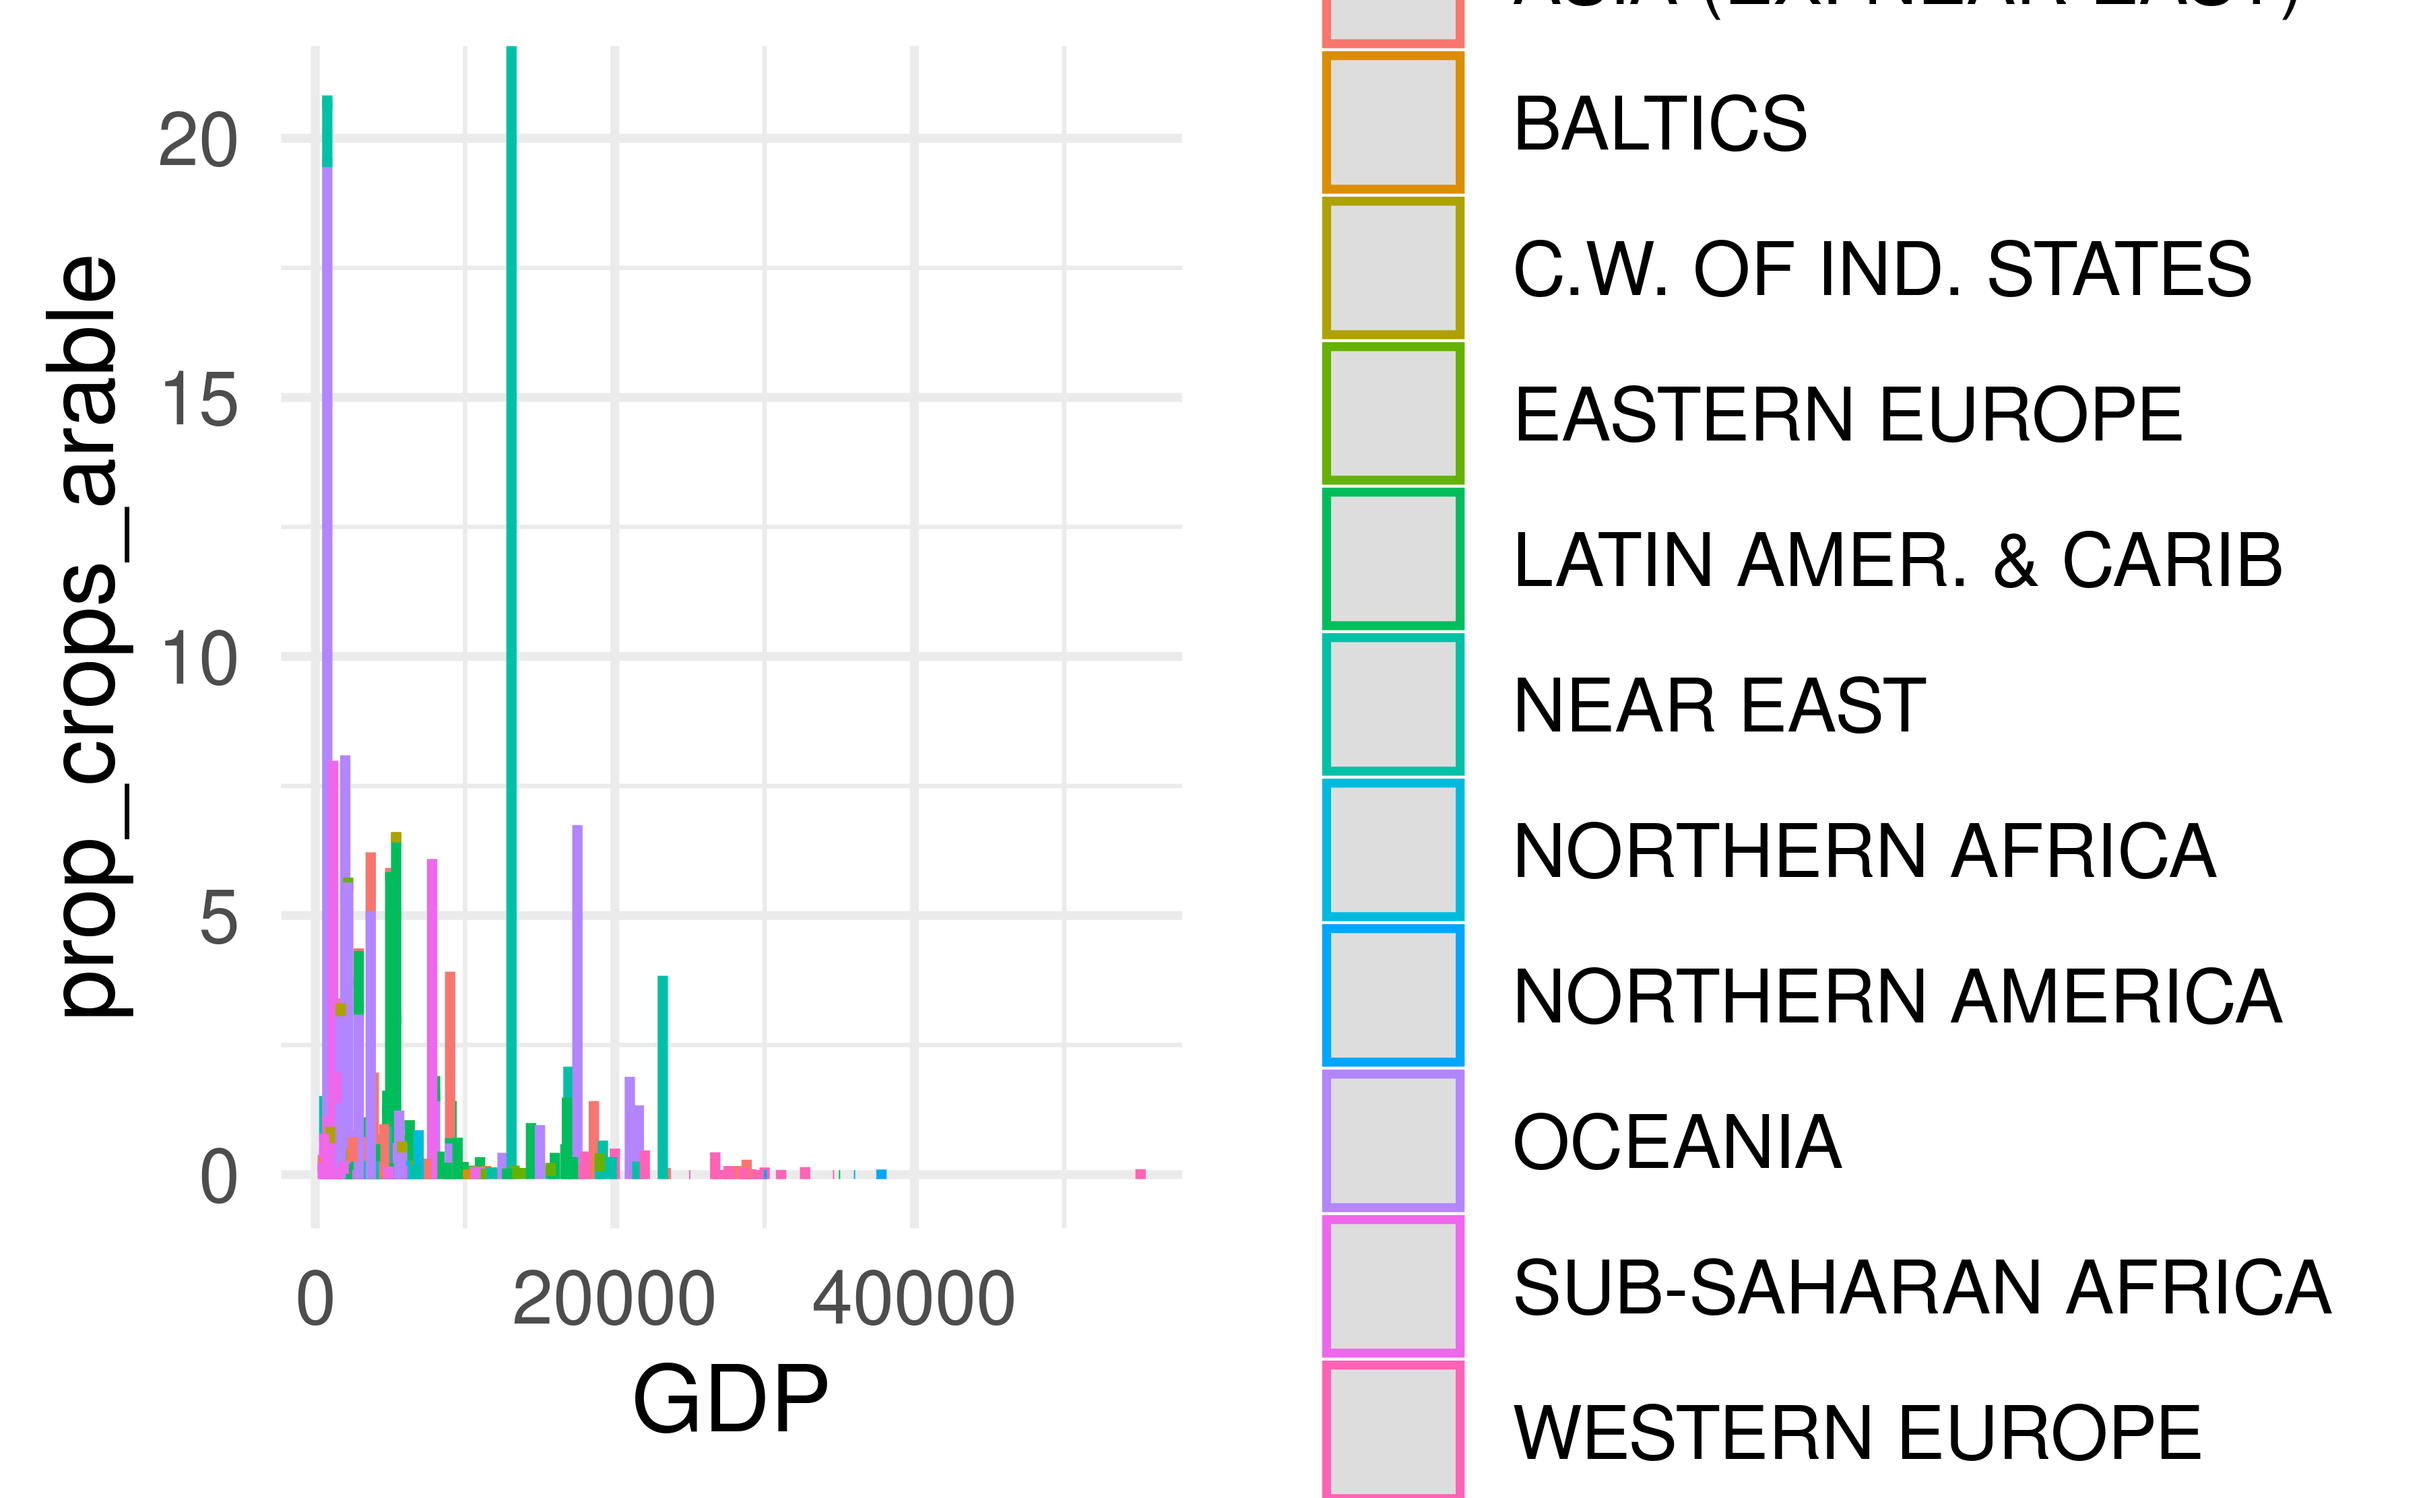
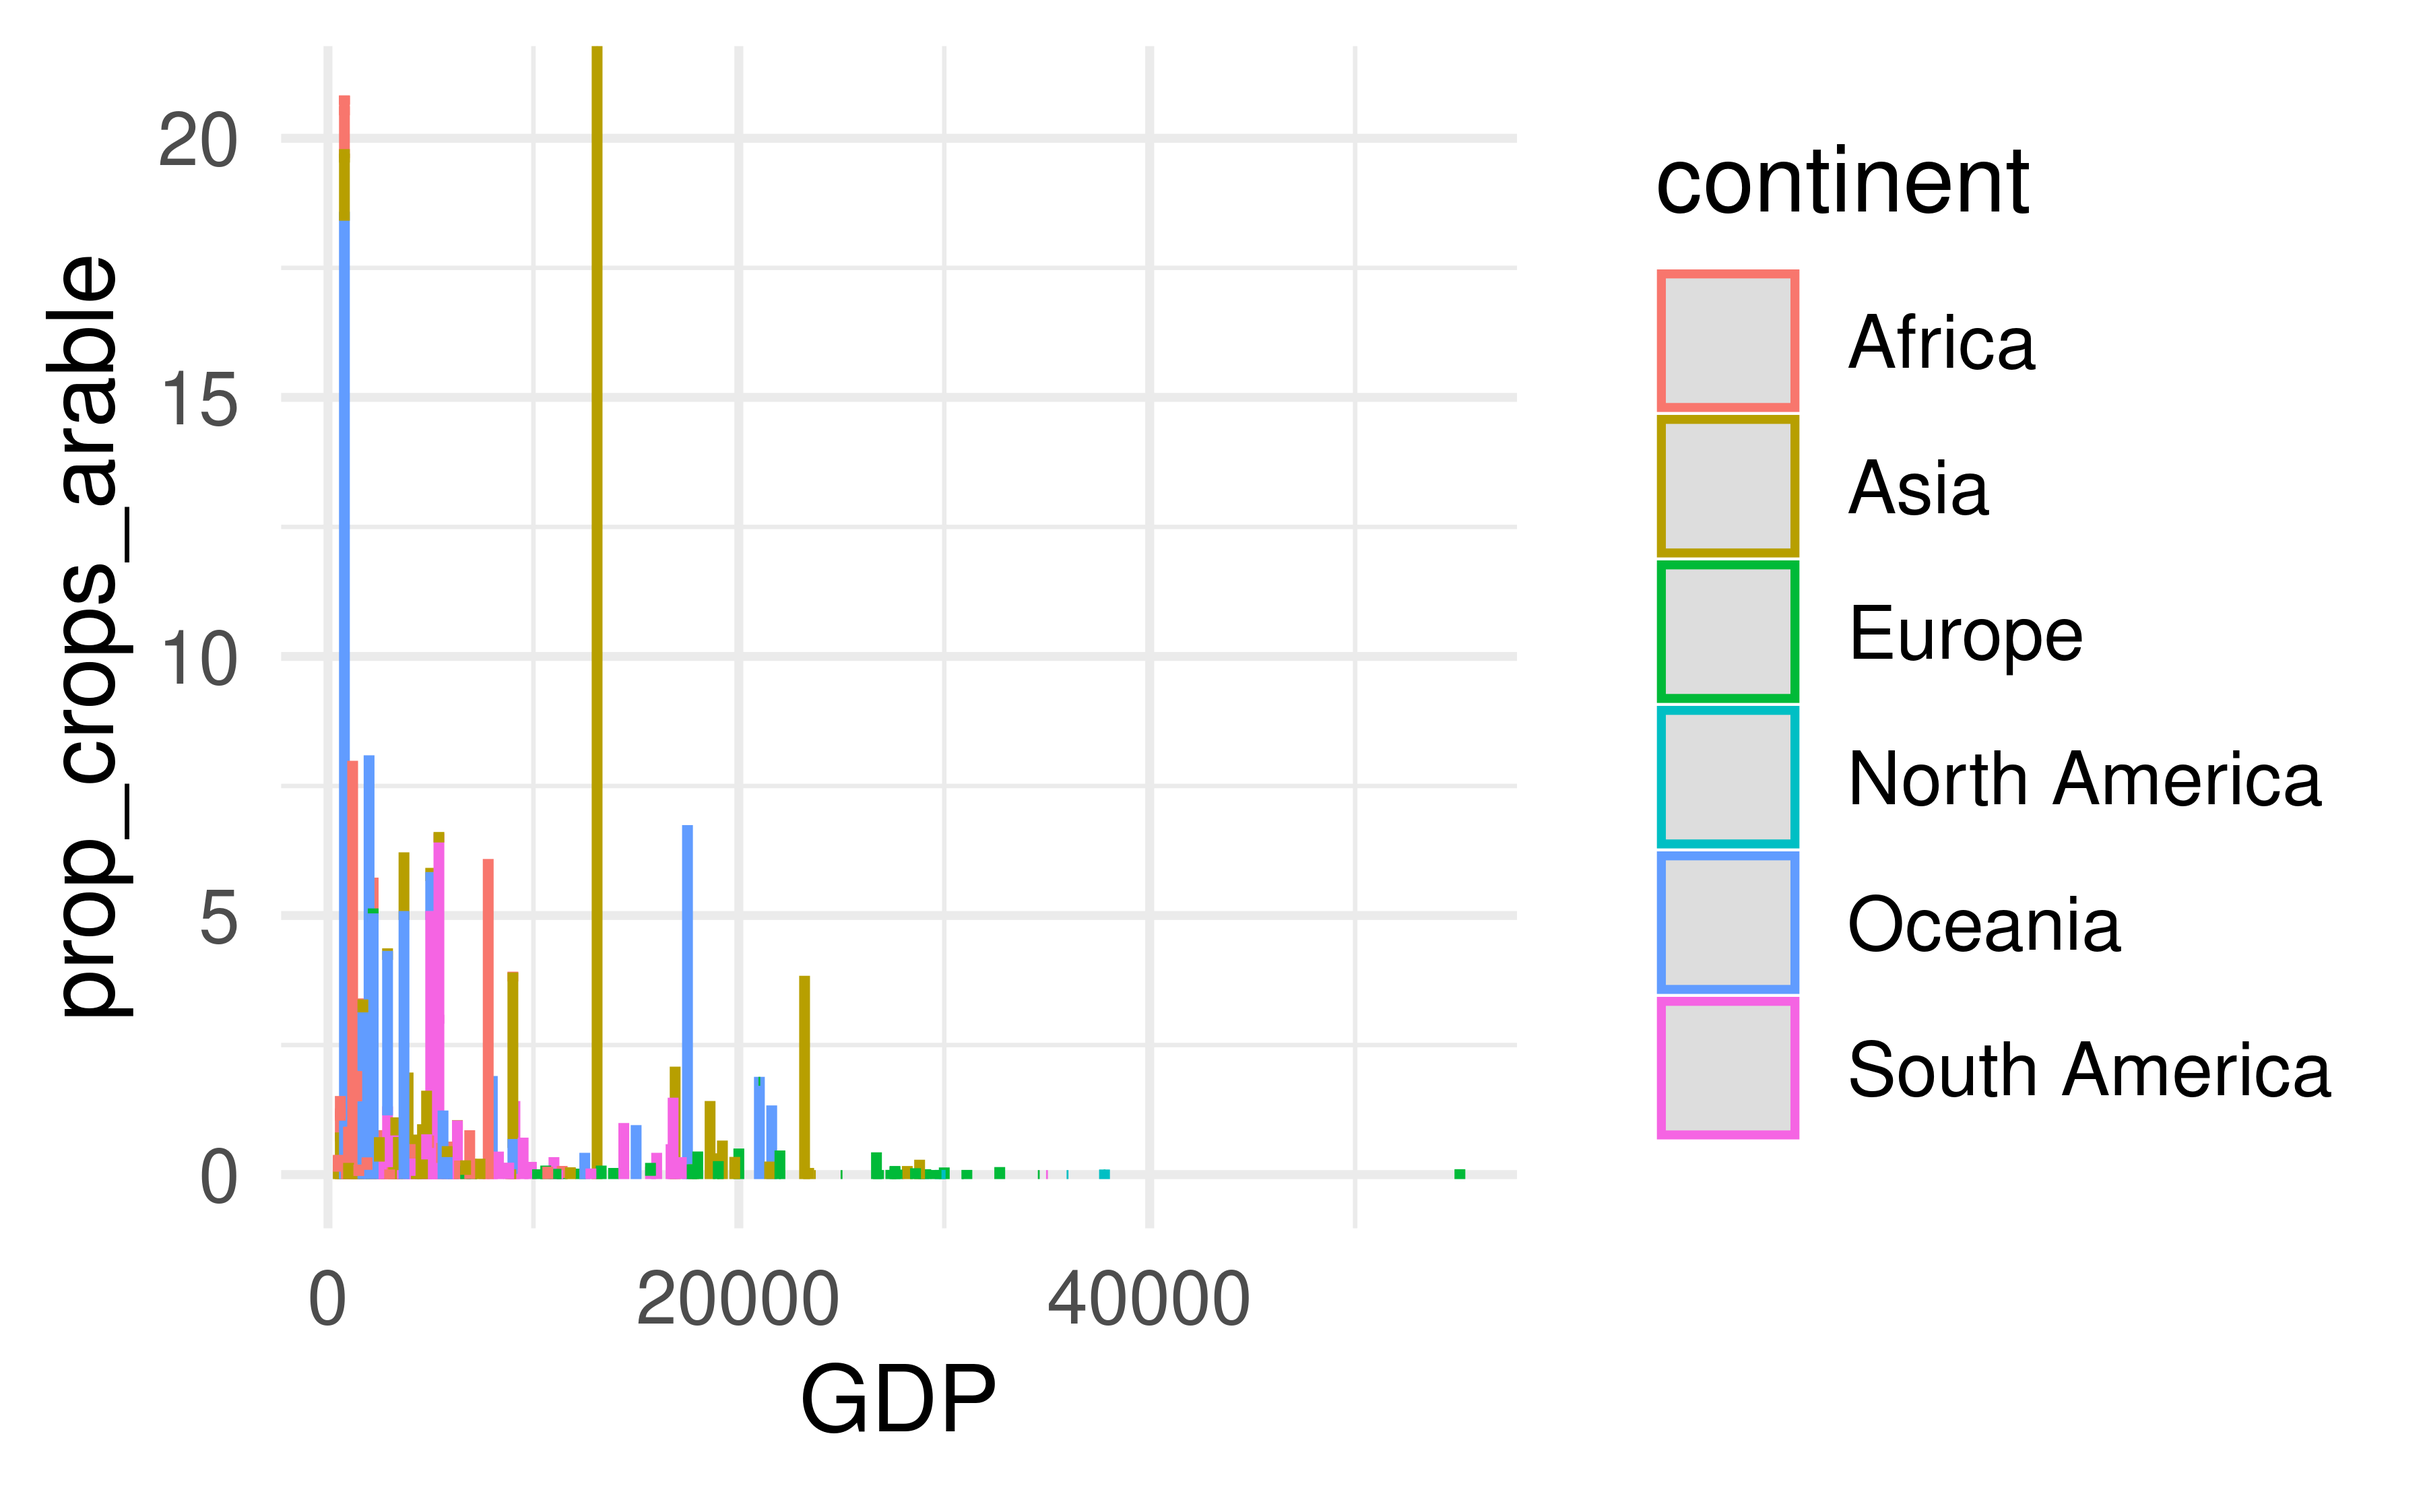
reworded some sentences, renamed variables of bar plot

Changed region(s): [[0.2178, 0.0, 0.9644, 1.0], [0.1244, 0.031, 0.4044, 0.8067], [0.1244, 0.8377, 0.1556, 0.8997]]

diff --git a/presentation/presentation.html b/presentation/presentation.html
@@ -77,17 +77,17 @@
   <h3 class="date"><font size = '6'>2021-11-30</font></h3>
 </section>
 
-<section id="what-is-the-relationship-between-geographical-economical-and-societal-qualities-in-countries-all-over-the-world" class="title-slide slide level1">
-<h1>What is the relationship between geographical, economical and societal qualities in countries all over the world?</h1>
+<section id="what-is-the-relationship-between-geographical-economic-and-societal-qualities-in-countries-all-over-the-world" class="title-slide slide level1">
+<h1>What is the relationship between geographical, economic and societal qualities in countries all over the world?</h1>
 
 </section>
 
 <section id="to-break-this-question-down-were-going-to-look-at-3-specific-areas--" class="title-slide slide level1">
 <h1>To break this question down, we’re going to look at 3 specific areas -</h1>
 <ol type="1">
-<li>How strong is the correlation between economical and societal qualities</li>
+<li>How strong is the correlation between economic and societal qualities</li>
 <li>How impactful are geographical qualities on the development of societal qualities</li>
-<li>What is the relationship between geographical qualities and economical qualities</li>
+<li>What is the relationship between geographical qualities and economic qualities</li>
 </ol>
 </section>
 
@@ -104,9 +104,14 @@
 ##       &lt;dbl&gt;         &lt;dbl&gt; &lt;dbl&gt;     &lt;dbl&gt;    &lt;dbl&gt; &lt;dbl&gt;  &lt;dbl&gt; &lt;dbl&gt; &lt;dbl&gt;
 ## 1     0.432         0.427 7641.      83.6 9.77e-28     2 -2309. 4626. 4639.
 ## # … with 3 more variables: deviance &lt;dbl&gt;, df.residual &lt;int&gt;, nobs &lt;int&gt;</code></pre>
-<p>linear equation…</p>
-<p>You can write LaTeX math expressions inside a pair of dollar signs ($…$), e.g. <span class="math inline">\(\alpha+\beta\)</span>. You can use the display style with double dollar signs:</p>
-<p><span class="math display">\[\bar{X}=\frac{1}{n}\sum_{i=1}^nX_i\]</span></p>
+<pre><code>## # A tibble: 3 × 5
+##   term             estimate std.error statistic   p.value
+##   &lt;chr&gt;               &lt;dbl&gt;     &lt;dbl&gt;     &lt;dbl&gt;     &lt;dbl&gt;
+## 1 (Intercept)        9.07     0.100       90.3  8.31e-176
+## 2 deathrate          0.0746   0.0126       5.93 1.16e-  8
+## 3 infant_mortality  -0.0333   0.00177    -18.8  9.94e- 48</code></pre>
+<p>linear equation… log(GDP)=9.07 + 0.0746* deathrate - 0.0333* infant_mortality You can write LaTeX math expressions inside a pair of dollar signs ($…$), e.g. <span class="math inline">\(\alpha+\beta\)</span>. You can use the display style with double dollar signs:</p>
+<p><span class="math display">\[\log(GDP)=9.07 + 0.0746* deathrate - 0.0333* infant mortality\]</span></p>
 </section>
 
 <section id="other-statistical-methods-used" class="title-slide slide level1">
@@ -123,7 +128,7 @@
 <section>
 <section id="economic-sectors-vs-location" class="title-slide slide level1">
 <h1>Economic sectors vs Location</h1>
-
+<p><img src="presentation_files/figure-revealjs/continent-vs-sector-1.png" width="80%" /></p>
 </section>
 <section id="plot-and-text" class="slide level2">
 <h2>Plot and text</h2>
